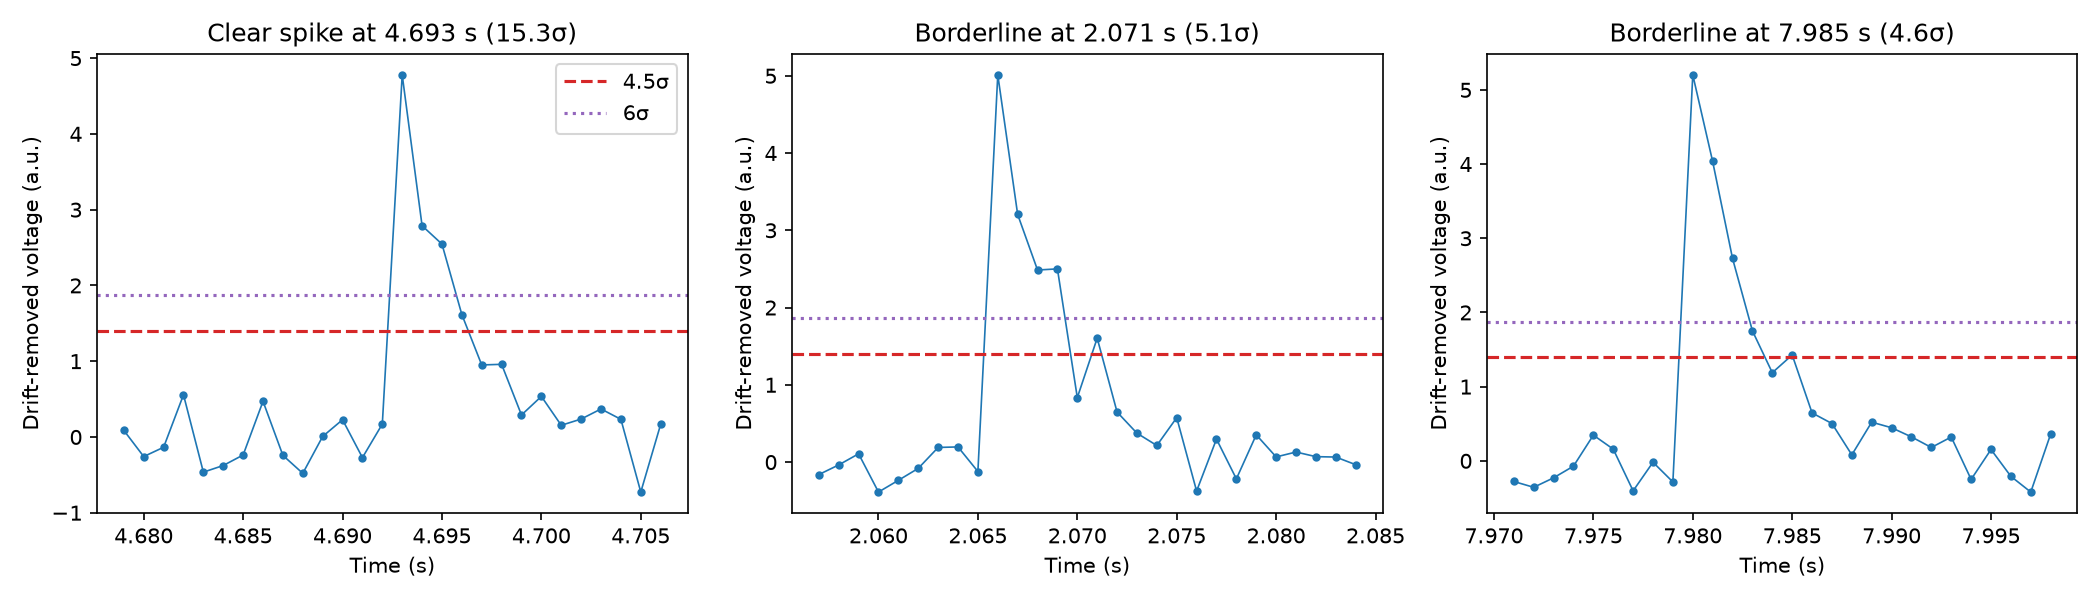
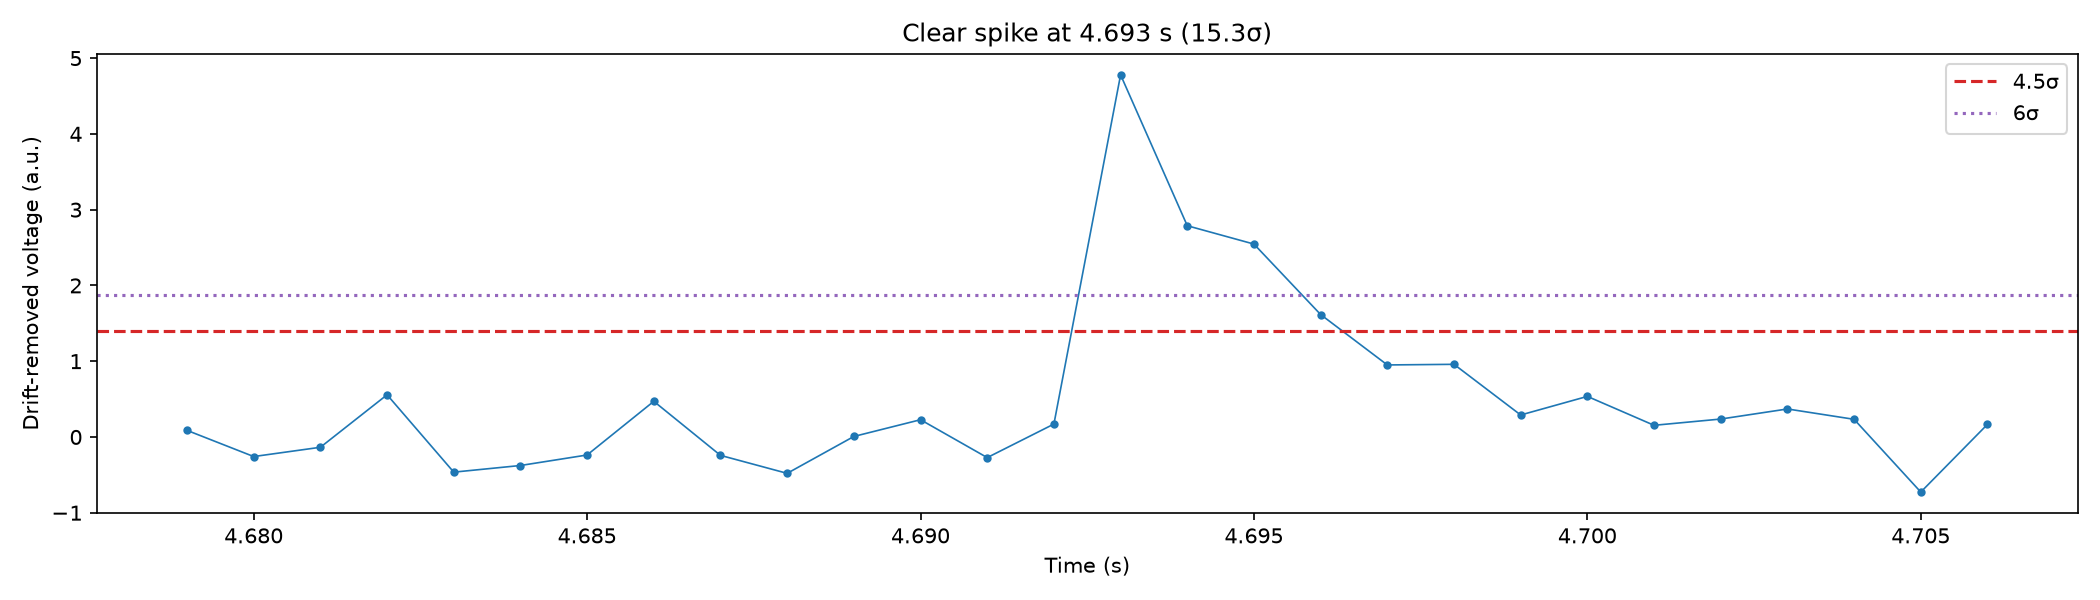
Increase dead time to 8 ms: 5 ms let tail re-crossings through

diff --git a/Task2B/run_analysis.py b/Task2B/run_analysis.py
@@ -17,7 +17,7 @@ raw = data["raw_data"]
 fs = 1 / np.median(np.diff(t))
 duration = len(t) / fs
 
-# Run the detector with the 2A settings (window 0.2 s, alpha 4.5, dead time 5 ms)
+# Run the detector with the 2A settings (window 0.2 s, alpha 4.5, dead time 8 ms)
 spikes = detect_spikes(raw, fs)
 n_spikes = len(spikes)
 rate = n_spikes / duration
@@ -26,12 +26,17 @@ print(f"Sampling rate: {fs:.0f} Hz, duration: {duration:.1f} s")
 print(f"Spikes detected: {n_spikes}")
 print(f"Firing rate: {rate:.2f} Hz")
 
-# Sensitivity: how does the count change with alpha?
-print("\nalpha   spikes   rate (Hz)")
-for alpha in [3.0, 3.5, 4.0, 4.5, 5.0, 5.5, 6.0, 7.0]:
-    n = len(detect_spikes(raw, fs, alpha=alpha))
-    print(f"{alpha:5.1f}   {n:6d}   {n / duration:8.2f}")
 
+# Sensitivity: how does the count change with alpha and dead time?
+print("\nalpha   spikes (5 ms)   spikes (8 ms)   rate 8 ms (Hz)")
+for alpha in [3.0, 3.5, 4.0, 4.5, 5.0, 5.5, 6.0, 7.0]:
+    n5 = len(detect_spikes(raw, fs, alpha=alpha, dead_time_s=0.005))
+    n8 = len(detect_spikes(raw, fs, alpha=alpha, dead_time_s=0.008))
+    print(f"{alpha:5.1f}   {n5:13d}   {n8:13d}   {n8 / duration:14.2f}")
+
+spikes_8 = detect_spikes(raw, fs)            # default settings: alpha 4.5, dead time 8 ms
+gaps_ms = np.diff(t[spikes_8]) * 1000
+print(f"\nSmallest gap between spikes (8 ms dead time): {gaps_ms.min():.0f} ms")
 
 # --- Borderline events: found at alpha 4.5 but not at alpha 6 ---
 flat = remove_drift(raw, fs)
@@ -79,7 +84,8 @@ plt.show()
 clear = spikes_strict[np.argmin(np.abs(t[spikes_strict] - 4.69))]   # the clear spike near 4.69 s (Figure C in 2A)
 to_show = [("Clear spike", clear)] + [("Borderline", i) for i in borderline]
 
-fig, axes = plt.subplots(1, len(to_show), figsize=(14, 4))
+fig, axes = plt.subplots(1, len(to_show), figsize=(14, 4), squeeze=False)
+axes = axes[0]
 half = int(0.015 * fs)   # ±15 ms around each event
 
 for ax, (label, i) in zip(axes, to_show):

diff --git a/Task2B/src/spike_detection.py b/Task2B/src/spike_detection.py
@@ -52,7 +52,7 @@ def apply_dead_time(onsets, fs, dead_time_s=0.005):
     return np.array(kept, dtype=int)
 
 
-def detect_spikes(raw, fs, window_s=0.2, alpha=4.5, dead_time_s=0.005):
+def detect_spikes(raw, fs, window_s=0.2, alpha=4.5, dead_time_s=0.008):
     """Full detector: remove drift, estimate noise, threshold, find onsets, apply dead time.
 
     Returns the sample indices of detected spikes (onset of each above-threshold run).
